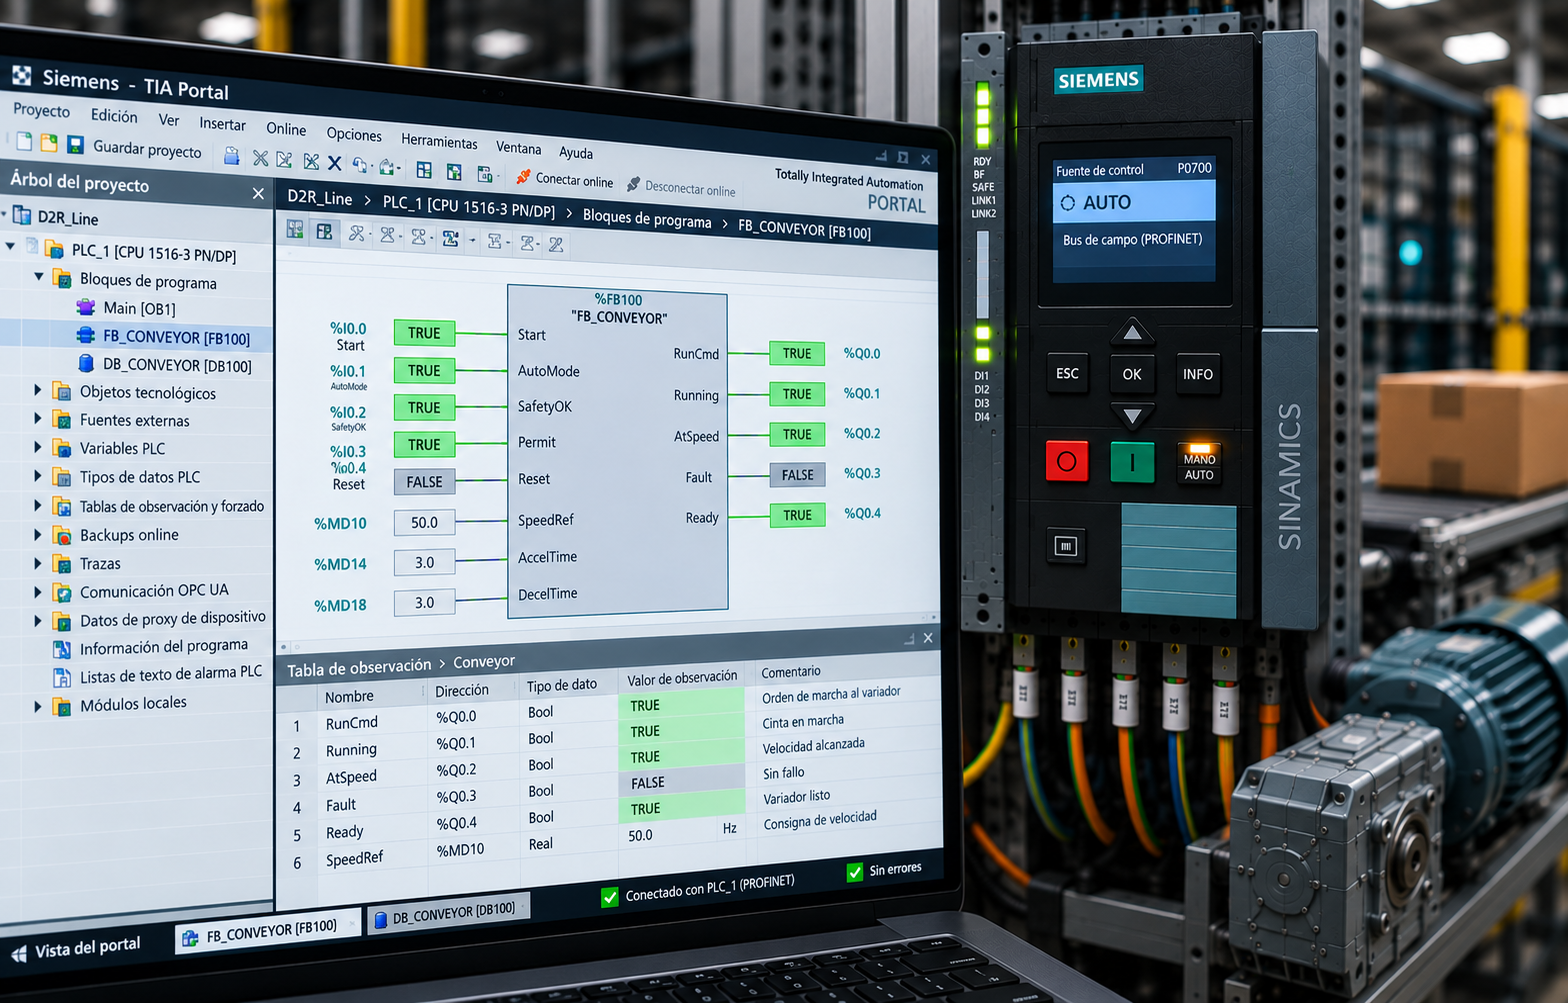
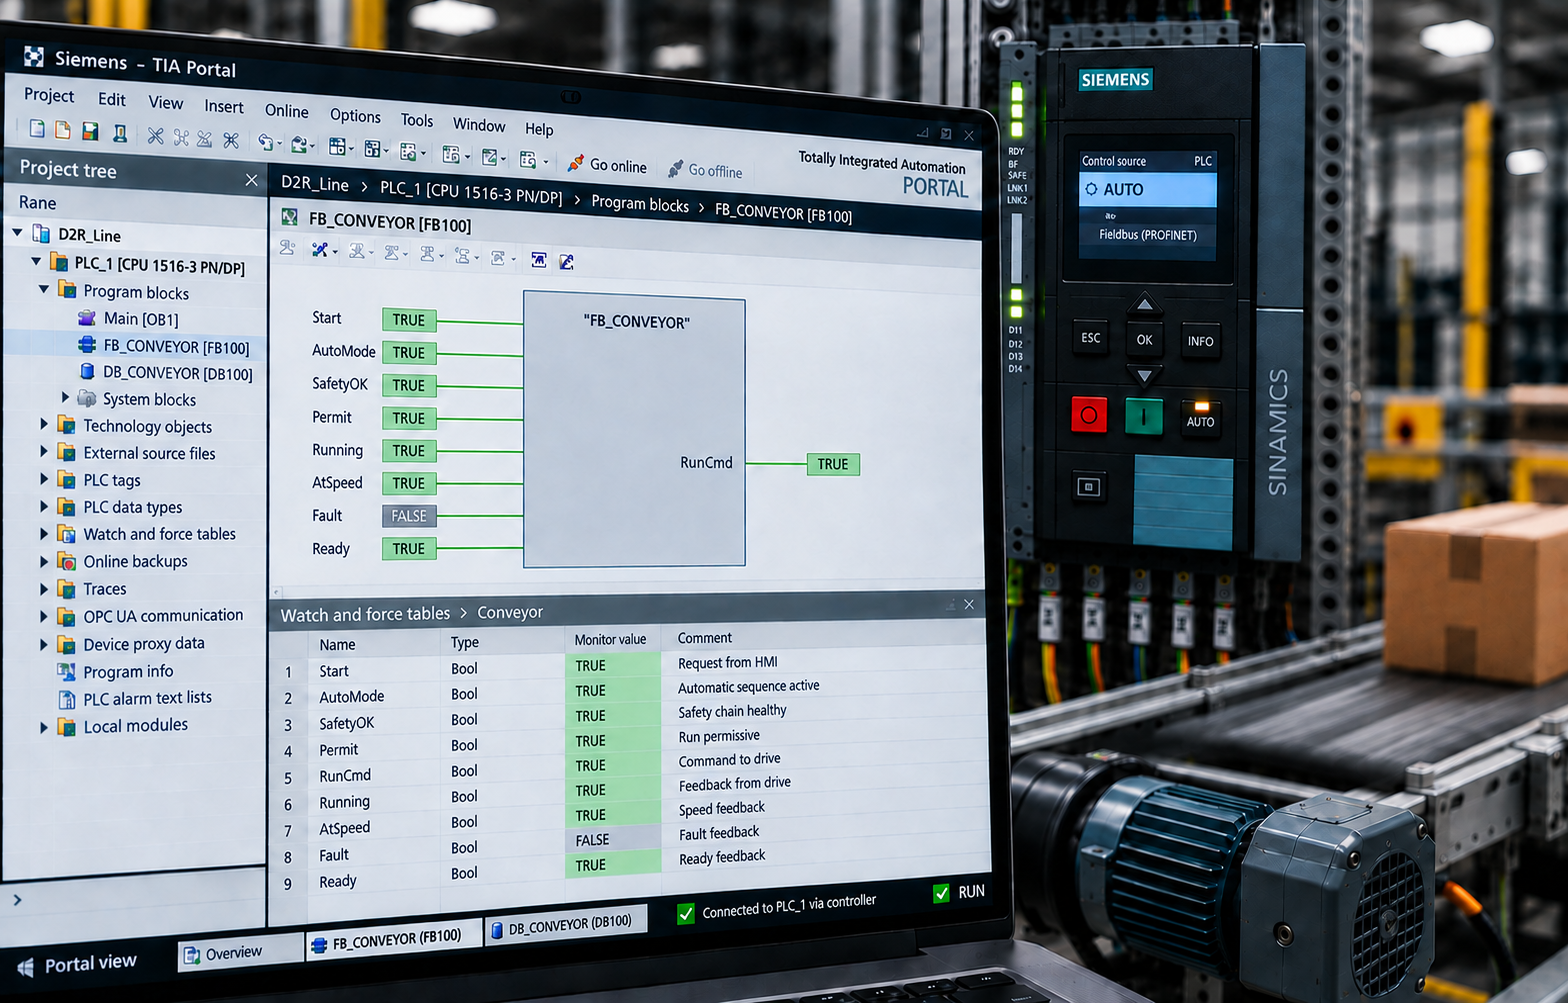
feat: update EE-0003 hotspot coordinates and promote technical validation to pass

diff --git a/experience-engine/packaging/tests/ee0003VfdCommandAuthorityExperience.test.js b/experience-engine/packaging/tests/ee0003VfdCommandAuthorityExperience.test.js
@@ -50,7 +50,7 @@ function memoryStorage() {
   return { getItem: key => values.get(key) ?? null, setItem: (key, value) => values.set(key, value), removeItem: key => values.delete(key) };
 }
 
-test("EE-0003 is a technical-review Authoring V2 Experience with one authority per stage", async () => {
+test("EE-0003 is a technically validated technical-review Authoring V2 Experience with one authority per stage", async () => {
   const authoring = await readYaml("experience.yaml");
   const validation = validateExperienceDefinition(authoring);
   assert.equal(validation.valid, true);
@@ -58,7 +58,7 @@ test("EE-0003 is a technical-review Authoring V2 Experience with one authority p
   assert.equal(authoring.metadata.id, "EXP-VFD-AUTHORITY-003");
   assert.equal(authoring.metadata.editorial_id, "EE-0003");
   assert.equal(authoring.metadata.status, "technical_review");
-  assert.equal(authoring.private.technical_validation.status, "pending");
+  assert.equal(authoring.private.technical_validation.status, "pass");
   assert.equal(authoring.public.stages.length, 6);
   assert.equal(authoring.public.stages.every(stage => stage.decision_ids.length === 3), true);
   assert.equal(authoring.private.decision_logic.filter(item => item.is_correct).length, 6);

diff --git a/docs/06_Changelog.md b/docs/06_Changelog.md
@@ -1,5 +1,17 @@
 # Changelog
 
+## 2026-09-07 — EE-0003 ENV-001 hotspot correction
+
+- Moved only the EE-0003 ENV-001 hotspot from the conveyor product box to the visible VFD inside the right-hand electrical cabinet.
+- Preserved the existing percentage-based responsive positioning and all EE-0001/EE-0002 coordinates and interactions.
+
+## 2026-09-07 — EE-0003 final technical validation
+
+- Corrected ART-006 to preserve the pre-recovery HAND/BOP authority state while the PLC produces `RunCmd` and execution feedback remains false.
+- Corrected ART-007 to show the recovered AUTO/PLC-PROFINET state with coherent running and at-speed feedback.
+- Standardized both assets on the same symbolic `FB_CONVEYOR` interface without invented absolute addresses or PLC-output representation of drive feedback.
+- Promoted EE-0003 technical validation to pass after full V2, localization, security, Player, evaluator, ENV, packaging and project regression; its editorial status remains technical review.
+
 ## 2026-09-07 — EE-0003 motor/VFD command-authority Preview
 
 - Added EE-0003 as an Authoring V2 practice Experience for diagnosis of the S7-1500 → PROFINET → SINAMICS G120 command chain.
